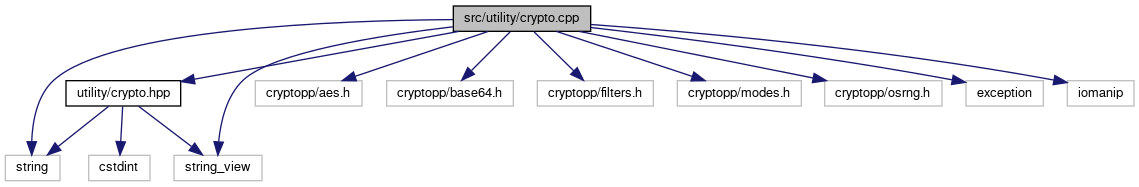
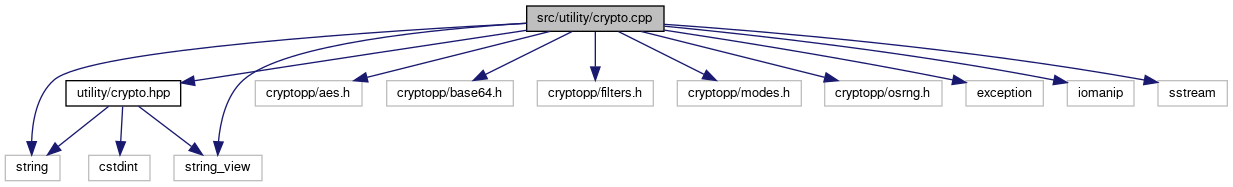
Update docs

diff --git a/docs/crypto_8hpp_source.html b/docs/crypto_8hpp_source.html
@@ -129,16 +129,16 @@ $(function() {
 <div class="line"><a name="l00067"></a><span class="lineno">   67</span>&#160; </div>
 <div class="line"><a name="l00068"></a><span class="lineno">   68</span>&#160;<span class="preprocessor">#endif</span></div>
 <div class="ttc" id="aclasskmanager_1_1utility_1_1Crypto_html"><div class="ttname"><a href="classkmanager_1_1utility_1_1Crypto.html">kmanager::utility::Crypto</a></div><div class="ttdoc">Basic class used to manage encryption and decryption of a string.</div><div class="ttdef"><b>Definition:</b> crypto.hpp:36</div></div>
-<div class="ttc" id="aclasskmanager_1_1utility_1_1Crypto_html_a0c6091c3512f5cfba1e27c5d5cf18c6d"><div class="ttname"><a href="classkmanager_1_1utility_1_1Crypto.html#a0c6091c3512f5cfba1e27c5d5cf18c6d">kmanager::utility::Crypto::getKey</a></div><div class="ttdeci">std::string getKey() const</div><div class="ttdoc">Return value of &quot;key&quot; variable.</div><div class="ttdef"><b>Definition:</b> crypto.cpp:173</div></div>
-<div class="ttc" id="aclasskmanager_1_1utility_1_1Crypto_html_a2d7c10700889a41b94b05910397136b6"><div class="ttname"><a href="classkmanager_1_1utility_1_1Crypto.html#a2d7c10700889a41b94b05910397136b6">kmanager::utility::Crypto::~Crypto</a></div><div class="ttdeci">~Crypto()</div><div class="ttdoc">Destroy the Crypto object.</div><div class="ttdef"><b>Definition:</b> crypto.cpp:61</div></div>
-<div class="ttc" id="aclasskmanager_1_1utility_1_1Crypto_html_a444ad9debdf2394f41e41a149235aca6"><div class="ttname"><a href="classkmanager_1_1utility_1_1Crypto.html#a444ad9debdf2394f41e41a149235aca6">kmanager::utility::Crypto::Crypto</a></div><div class="ttdeci">Crypto(std::string_view message, std::string_view key)</div><div class="ttdoc">Construct a new Crypto object, by using a default input key.</div><div class="ttdef"><b>Definition:</b> crypto.cpp:40</div></div>
-<div class="ttc" id="aclasskmanager_1_1utility_1_1Crypto_html_a61ae6df28c047a2b601d545e54b3b418"><div class="ttname"><a href="classkmanager_1_1utility_1_1Crypto.html#a61ae6df28c047a2b601d545e54b3b418">kmanager::utility::Crypto::setMessage</a></div><div class="ttdeci">void setMessage(std::string_view message)</div><div class="ttdoc">Change value of the &quot;message&quot; variable.</div><div class="ttdef"><b>Definition:</b> crypto.cpp:183</div></div>
-<div class="ttc" id="aclasskmanager_1_1utility_1_1Crypto_html_a638e01a1c9bf5cf777f5fbc7b6bc26ff"><div class="ttname"><a href="classkmanager_1_1utility_1_1Crypto.html#a638e01a1c9bf5cf777f5fbc7b6bc26ff">kmanager::utility::Crypto::clear</a></div><div class="ttdeci">void clear()</div><div class="ttdoc">Clear the &quot;message&quot; and &quot;key&quot; strings.</div><div class="ttdef"><b>Definition:</b> crypto.cpp:152</div></div>
-<div class="ttc" id="aclasskmanager_1_1utility_1_1Crypto_html_a6a8d79aacf3c6e5c336bd10f1bddf38d"><div class="ttname"><a href="classkmanager_1_1utility_1_1Crypto.html#a6a8d79aacf3c6e5c336bd10f1bddf38d">kmanager::utility::Crypto::getMessage</a></div><div class="ttdeci">std::string getMessage() const</div><div class="ttdoc">Return value of &quot;message&quot; variable.</div><div class="ttdef"><b>Definition:</b> crypto.cpp:164</div></div>
-<div class="ttc" id="aclasskmanager_1_1utility_1_1Crypto_html_a737c32d3c5f6f62ac9c4cfde460be008"><div class="ttname"><a href="classkmanager_1_1utility_1_1Crypto.html#a737c32d3c5f6f62ac9c4cfde460be008">kmanager::utility::Crypto::setKey</a></div><div class="ttdeci">void setKey(std::string_view key)</div><div class="ttdoc">Change value of the &quot;key&quot; variable.</div><div class="ttdef"><b>Definition:</b> crypto.cpp:193</div></div>
-<div class="ttc" id="aclasskmanager_1_1utility_1_1Crypto_html_aa91e54884df0ea905c34a2eab3f73293"><div class="ttname"><a href="classkmanager_1_1utility_1_1Crypto.html#aa91e54884df0ea905c34a2eab3f73293">kmanager::utility::Crypto::decrypt</a></div><div class="ttdeci">std::string decrypt()</div><div class="ttdoc">Decrypt the encrypted &quot;message&quot; string using the &quot;key&quot; string.</div><div class="ttdef"><b>Definition:</b> crypto.cpp:112</div></div>
-<div class="ttc" id="aclasskmanager_1_1utility_1_1Crypto_html_ab6c012a2ed86782d071dbd7c9e374940"><div class="ttname"><a href="classkmanager_1_1utility_1_1Crypto.html#ab6c012a2ed86782d071dbd7c9e374940">kmanager::utility::Crypto::encrypt</a></div><div class="ttdeci">std::string encrypt()</div><div class="ttdoc">Encrypt the &quot;message&quot; string using the &quot;key&quot; string.</div><div class="ttdef"><b>Definition:</b> crypto.cpp:70</div></div>
-<div class="ttc" id="anamespacekmanager_1_1utility_html"><div class="ttname"><a href="namespacekmanager_1_1utility.html">kmanager::utility</a></div><div class="ttdef"><b>Definition:</b> crypto.cpp:31</div></div>
+<div class="ttc" id="aclasskmanager_1_1utility_1_1Crypto_html_a0c6091c3512f5cfba1e27c5d5cf18c6d"><div class="ttname"><a href="classkmanager_1_1utility_1_1Crypto.html#a0c6091c3512f5cfba1e27c5d5cf18c6d">kmanager::utility::Crypto::getKey</a></div><div class="ttdeci">std::string getKey() const</div><div class="ttdoc">Return value of &quot;key&quot; variable.</div><div class="ttdef"><b>Definition:</b> crypto.cpp:174</div></div>
+<div class="ttc" id="aclasskmanager_1_1utility_1_1Crypto_html_a2d7c10700889a41b94b05910397136b6"><div class="ttname"><a href="classkmanager_1_1utility_1_1Crypto.html#a2d7c10700889a41b94b05910397136b6">kmanager::utility::Crypto::~Crypto</a></div><div class="ttdeci">~Crypto()</div><div class="ttdoc">Destroy the Crypto object.</div><div class="ttdef"><b>Definition:</b> crypto.cpp:62</div></div>
+<div class="ttc" id="aclasskmanager_1_1utility_1_1Crypto_html_a444ad9debdf2394f41e41a149235aca6"><div class="ttname"><a href="classkmanager_1_1utility_1_1Crypto.html#a444ad9debdf2394f41e41a149235aca6">kmanager::utility::Crypto::Crypto</a></div><div class="ttdeci">Crypto(std::string_view message, std::string_view key)</div><div class="ttdoc">Construct a new Crypto object, by using a default input key.</div><div class="ttdef"><b>Definition:</b> crypto.cpp:41</div></div>
+<div class="ttc" id="aclasskmanager_1_1utility_1_1Crypto_html_a61ae6df28c047a2b601d545e54b3b418"><div class="ttname"><a href="classkmanager_1_1utility_1_1Crypto.html#a61ae6df28c047a2b601d545e54b3b418">kmanager::utility::Crypto::setMessage</a></div><div class="ttdeci">void setMessage(std::string_view message)</div><div class="ttdoc">Change value of the &quot;message&quot; variable.</div><div class="ttdef"><b>Definition:</b> crypto.cpp:184</div></div>
+<div class="ttc" id="aclasskmanager_1_1utility_1_1Crypto_html_a638e01a1c9bf5cf777f5fbc7b6bc26ff"><div class="ttname"><a href="classkmanager_1_1utility_1_1Crypto.html#a638e01a1c9bf5cf777f5fbc7b6bc26ff">kmanager::utility::Crypto::clear</a></div><div class="ttdeci">void clear()</div><div class="ttdoc">Clear the &quot;message&quot; and &quot;key&quot; strings.</div><div class="ttdef"><b>Definition:</b> crypto.cpp:153</div></div>
+<div class="ttc" id="aclasskmanager_1_1utility_1_1Crypto_html_a6a8d79aacf3c6e5c336bd10f1bddf38d"><div class="ttname"><a href="classkmanager_1_1utility_1_1Crypto.html#a6a8d79aacf3c6e5c336bd10f1bddf38d">kmanager::utility::Crypto::getMessage</a></div><div class="ttdeci">std::string getMessage() const</div><div class="ttdoc">Return value of &quot;message&quot; variable.</div><div class="ttdef"><b>Definition:</b> crypto.cpp:165</div></div>
+<div class="ttc" id="aclasskmanager_1_1utility_1_1Crypto_html_a737c32d3c5f6f62ac9c4cfde460be008"><div class="ttname"><a href="classkmanager_1_1utility_1_1Crypto.html#a737c32d3c5f6f62ac9c4cfde460be008">kmanager::utility::Crypto::setKey</a></div><div class="ttdeci">void setKey(std::string_view key)</div><div class="ttdoc">Change value of the &quot;key&quot; variable.</div><div class="ttdef"><b>Definition:</b> crypto.cpp:194</div></div>
+<div class="ttc" id="aclasskmanager_1_1utility_1_1Crypto_html_aa91e54884df0ea905c34a2eab3f73293"><div class="ttname"><a href="classkmanager_1_1utility_1_1Crypto.html#aa91e54884df0ea905c34a2eab3f73293">kmanager::utility::Crypto::decrypt</a></div><div class="ttdeci">std::string decrypt()</div><div class="ttdoc">Decrypt the encrypted &quot;message&quot; string using the &quot;key&quot; string.</div><div class="ttdef"><b>Definition:</b> crypto.cpp:113</div></div>
+<div class="ttc" id="aclasskmanager_1_1utility_1_1Crypto_html_ab6c012a2ed86782d071dbd7c9e374940"><div class="ttname"><a href="classkmanager_1_1utility_1_1Crypto.html#ab6c012a2ed86782d071dbd7c9e374940">kmanager::utility::Crypto::encrypt</a></div><div class="ttdeci">std::string encrypt()</div><div class="ttdoc">Encrypt the &quot;message&quot; string using the &quot;key&quot; string.</div><div class="ttdef"><b>Definition:</b> crypto.cpp:71</div></div>
+<div class="ttc" id="anamespacekmanager_1_1utility_html"><div class="ttname"><a href="namespacekmanager_1_1utility.html">kmanager::utility</a></div><div class="ttdef"><b>Definition:</b> crypto.cpp:32</div></div>
 </div><!-- fragment --></div><!-- contents -->
 <!-- start footer part -->
 <hr class="footer"/><address class="footer"><small>

diff --git a/docs/generic_8hpp_source.html b/docs/generic_8hpp_source.html
@@ -99,7 +99,7 @@ $(function() {
 <div class="line"><a name="l00033"></a><span class="lineno">   33</span>&#160;}  <span class="comment">// namespace kmanager::utility</span></div>
 <div class="line"><a name="l00034"></a><span class="lineno">   34</span>&#160; </div>
 <div class="line"><a name="l00035"></a><span class="lineno">   35</span>&#160;<span class="preprocessor">#endif</span></div>
-<div class="ttc" id="anamespacekmanager_1_1utility_html"><div class="ttname"><a href="namespacekmanager_1_1utility.html">kmanager::utility</a></div><div class="ttdef"><b>Definition:</b> crypto.cpp:31</div></div>
+<div class="ttc" id="anamespacekmanager_1_1utility_html"><div class="ttname"><a href="namespacekmanager_1_1utility.html">kmanager::utility</a></div><div class="ttdef"><b>Definition:</b> crypto.cpp:32</div></div>
 <div class="ttc" id="anamespacekmanager_1_1utility_html_a1507cf0311462baf4b05dd98c4feb905"><div class="ttname"><a href="namespacekmanager_1_1utility.html#a1507cf0311462baf4b05dd98c4feb905">kmanager::utility::copyToSystem</a></div><div class="ttdeci">QString copyToSystem(const QString &amp;fileNameToCopy)</div><div class="ttdoc">Copy a file to the app system directory.</div><div class="ttdef"><b>Definition:</b> generic.cpp:36</div></div>
 <div class="ttc" id="anamespacekmanager_1_1utility_html_a8af4e4390ac34d0be3e3ac69cef90ecf"><div class="ttname"><a href="namespacekmanager_1_1utility.html#a8af4e4390ac34d0be3e3ac69cef90ecf">kmanager::utility::copyDirectory</a></div><div class="ttdeci">void copyDirectory(const QString &amp;sourceDir, const QString &amp;extra_info)</div><div class="ttdoc">Copy a directory into the app system location.</div><div class="ttdef"><b>Definition:</b> generic.cpp:62</div></div>
 <div class="ttc" id="anamespacekmanager_1_1utility_html_ae9b18c999dbc1f94e14a127c5c6ba8ec"><div class="ttname"><a href="namespacekmanager_1_1utility.html#ae9b18c999dbc1f94e14a127c5c6ba8ec">kmanager::utility::getRealImgPath</a></div><div class="ttdeci">QString getRealImgPath(const QString &amp;img)</div><div class="ttdoc">Get the real path of an image, based on the application system path.</div><div class="ttdef"><b>Definition:</b> generic.cpp:101</div></div>

diff --git a/docs/crypto_8cpp.html b/docs/crypto_8cpp.html
@@ -83,12 +83,13 @@ $(function() {
 <code>#include &lt;iomanip&gt;</code><br />
 <code>#include &lt;string&gt;</code><br />
 <code>#include &lt;string_view&gt;</code><br />
+<code>#include &lt;sstream&gt;</code><br />
 </div><div class="textblock"><div class="dynheader">
 Include dependency graph for crypto.cpp:</div>
 <div class="dyncontent">
 <div class="center"><img src="crypto_8cpp__incl.png" border="0" usemap="#asrc_2utility_2crypto_8cpp" alt=""/></div>
 <map name="asrc_2utility_2crypto_8cpp" id="asrc_2utility_2crypto_8cpp">
-<area shape="rect" title=" " alt="" coords="453,5,591,32"/>
+<area shape="rect" title=" " alt="" coords="527,5,664,32"/>
 <area shape="rect" href="crypto_8hpp.html" title=" " alt="" coords="66,80,181,107"/>
 <area shape="rect" title=" " alt="" coords="5,155,60,181"/>
 <area shape="rect" title=" " alt="" coords="174,155,262,181"/>
@@ -99,6 +100,7 @@ Include dependency graph for crypto.cpp:</div>
 <area shape="rect" title=" " alt="" coords="825,80,942,107"/>
 <area shape="rect" title=" " alt="" coords="966,80,1043,107"/>
 <area shape="rect" title=" " alt="" coords="1067,80,1134,107"/>
+<area shape="rect" title=" " alt="" coords="1158,80,1227,107"/>
 <area shape="rect" title=" " alt="" coords="89,155,150,181"/>
 </map>
 </div>
